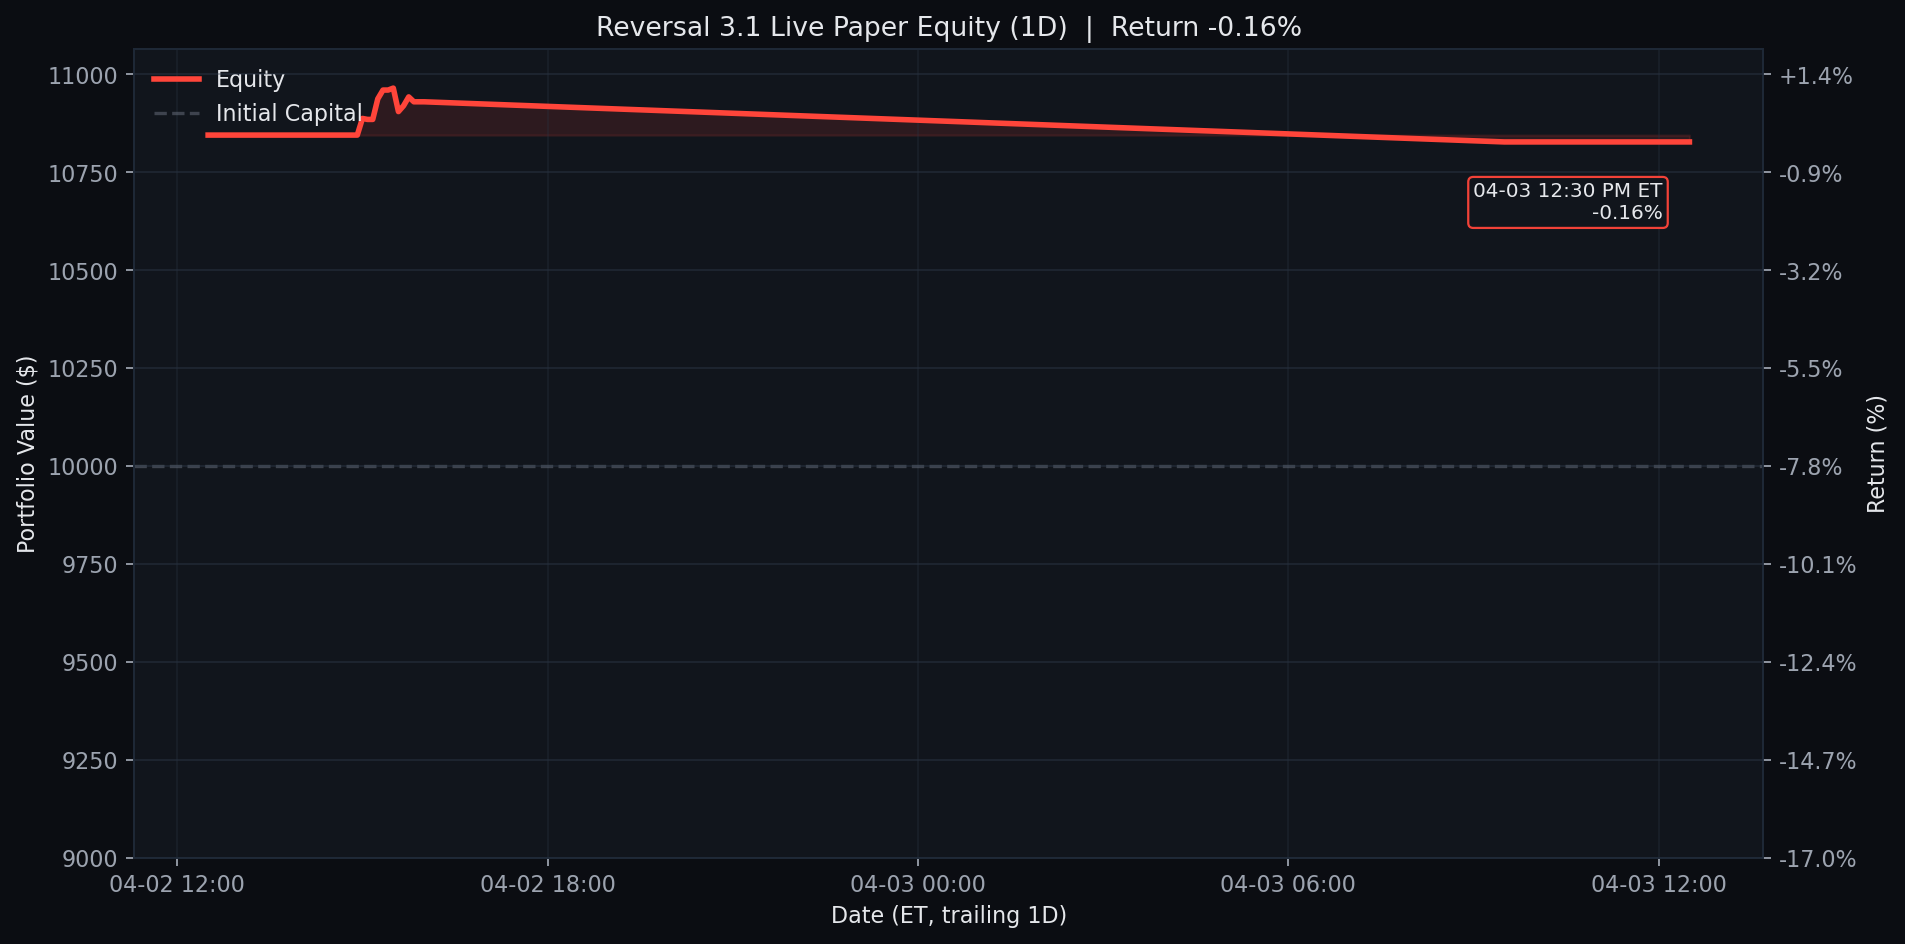
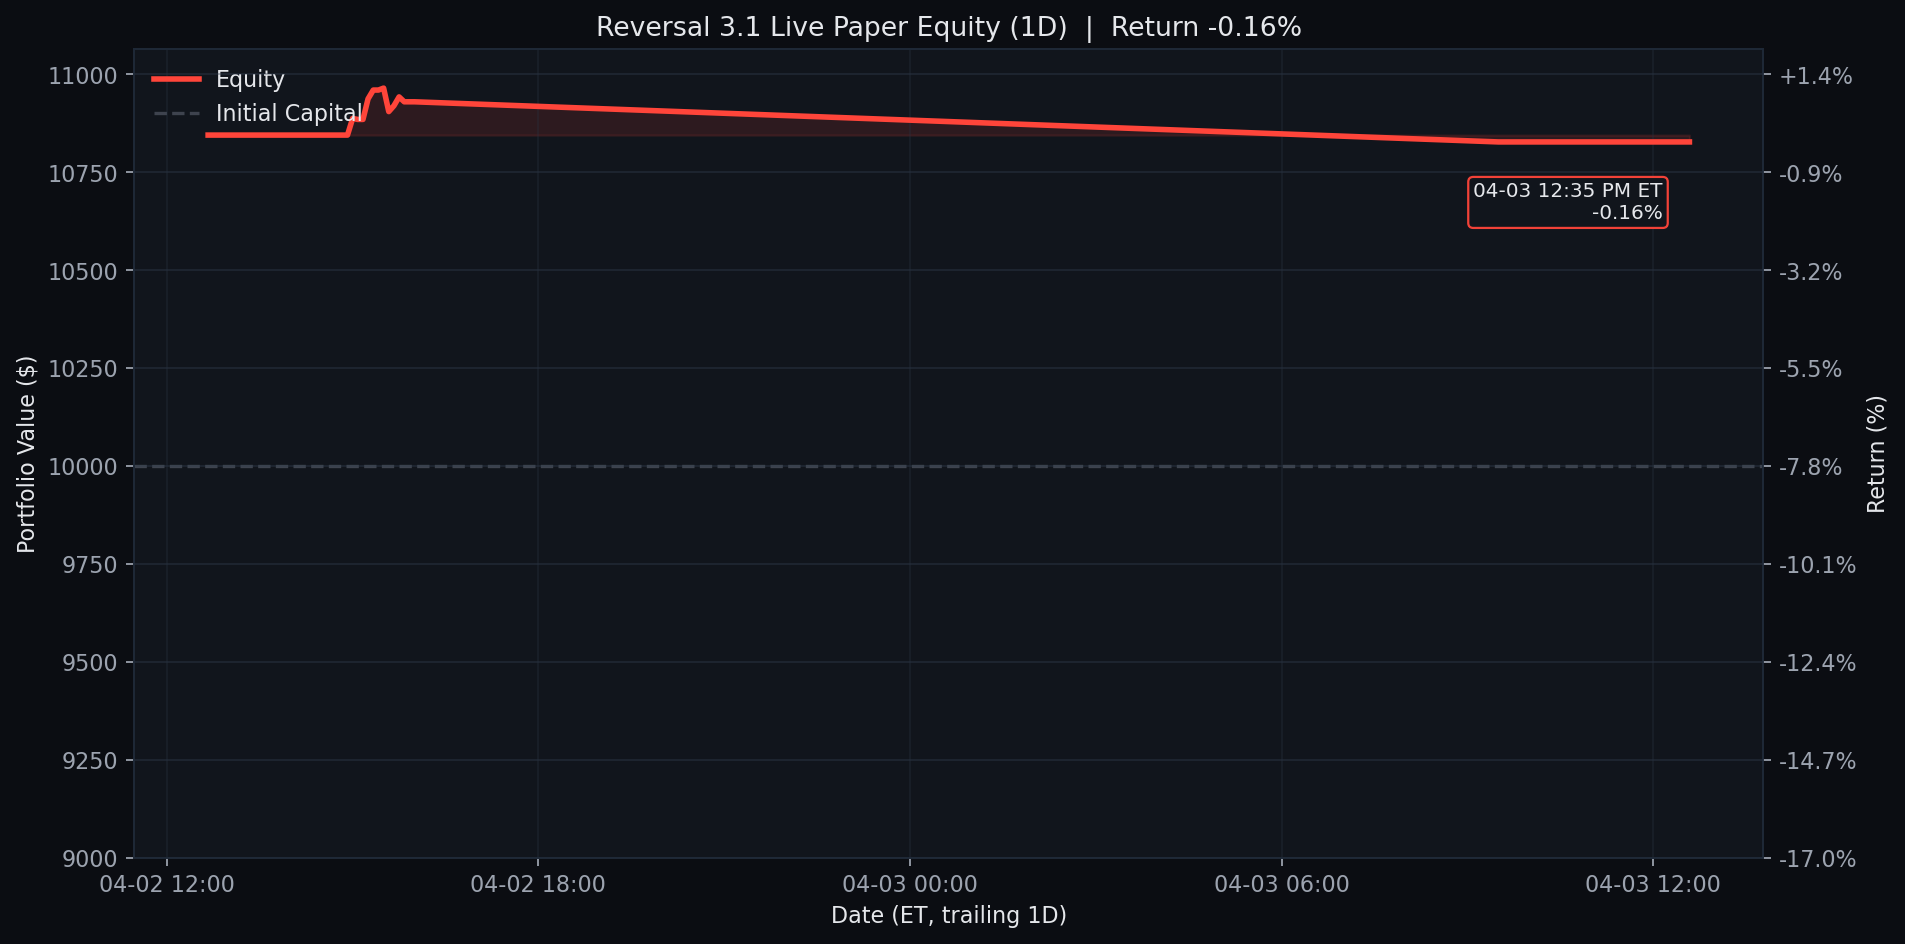
Update Reversal 3.1 live paper test 2026-04-03 12:35 ET

diff --git a/results/reversal_3_1_live/README.md b/results/reversal_3_1_live/README.md
@@ -1,6 +1,6 @@
 # Reversal 3.1 Live Paper Test
 
-Last updated (ET): `2026-04-03 12:30:02 EDT`
+Last updated (ET): `2026-04-03 12:35:05 EDT`
 Last processed slot: `manage_1230`
 
 ## Active Configuration
@@ -58,6 +58,7 @@ ticker  success_rate_%  matched_signals  current_drop_%  target_rebound_$  targe
 
 ```text
                     timestamp_et        slot   event_type                          detail
+2026-04-03T12:35:05.905395-04:00 manage_1230 slot_skipped {"reason": "already_processed"}
 2026-04-03T12:30:02.902231-04:00 manage_1230 slot_skipped {"reason": "already_processed"}
 2026-04-03T12:25:05.884462-04:00 manage_1230 slot_skipped {"reason": "already_processed"}
 2026-04-03T12:10:05.930387-04:00 manage_1200 slot_skipped {"reason": "already_processed"}
@@ -67,7 +68,6 @@ ticker  success_rate_%  matched_signals  current_drop_%  target_rebound_$  targe
 2026-04-03T11:40:00.980212-04:00 manage_1130 slot_skipped {"reason": "already_processed"}
 2026-04-03T11:35:05.892486-04:00 manage_1130 slot_skipped {"reason": "already_processed"}
 2026-04-03T11:30:05.885882-04:00 manage_1130 slot_skipped {"reason": "already_processed"}
-2026-04-03T11:25:00.980983-04:00 manage_1130 slot_skipped {"reason": "already_processed"}
 ```
 
 ## Equity Curves

diff --git a/README.md b/README.md
@@ -3,7 +3,7 @@
 <!-- reversal-3.1-live:start -->
 ## Reversal 3.1 Live Paper Test
 
-- Last updated (ET): `2026-04-03 12:30:02 EDT`
+- Last updated (ET): `2026-04-03 12:35:05 EDT`
 - Equity: `$10,827.50` | Realized: `$845.00` | Unrealized: `$-17.50` | Open positions: `1`
 - Today closed trades: `0`
 - Current slot: `manage_1230`
